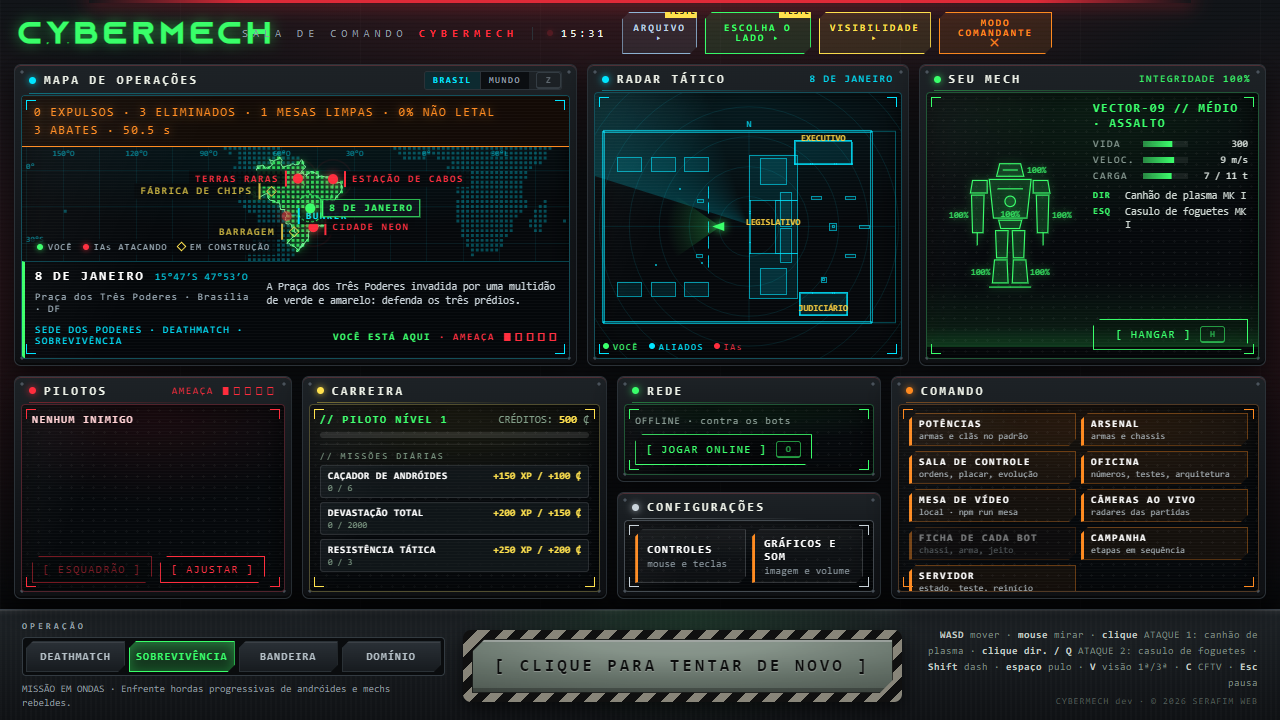
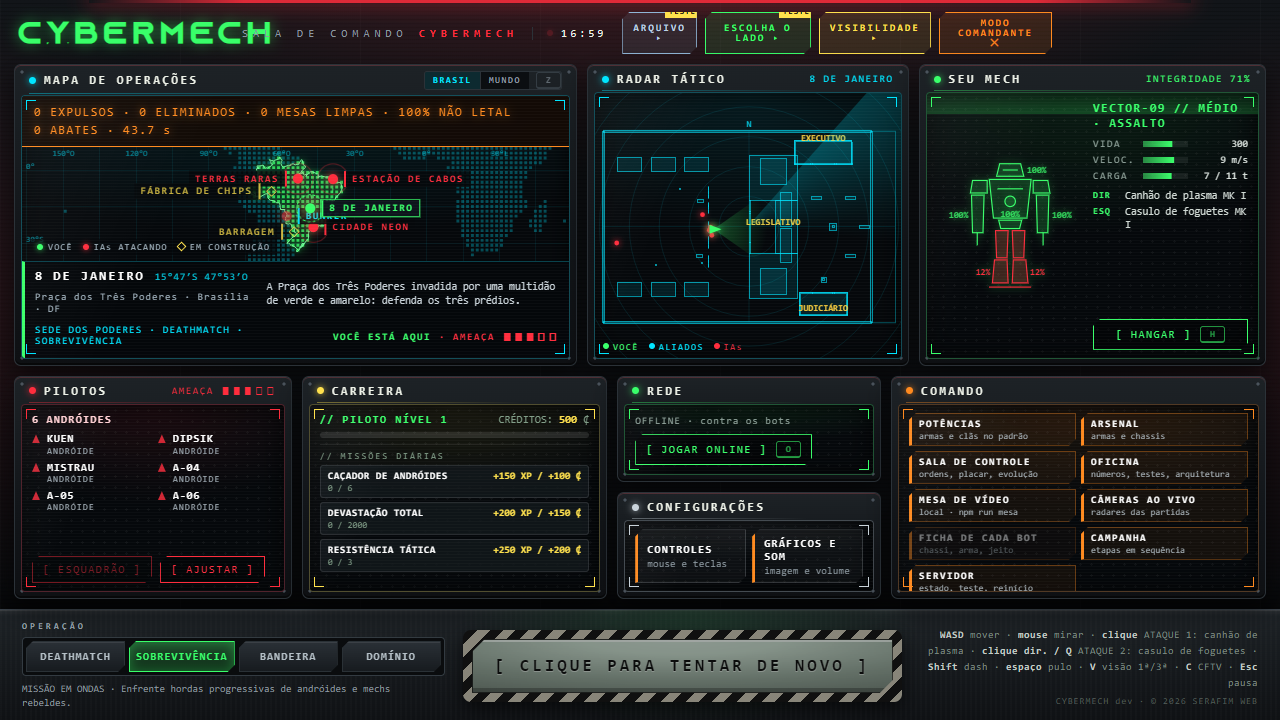
feat(janeiro): os androides rebeldes da missão do 8 de Janeiro: pool de 6 de preto, entram no cronograma da multidão e contam na Praça (P233)
BotSystem.entrarAndroide (sem alocar), androidPaint, a regra conta os rebeldes por chegar e vivos, painel com REBELDES. Vistos no Chrome com GPU real: 106 fps, 6 rebeldes aos 34 s. Equilíbrio é palpite.

diff --git a/client/src/sim/Match.ts b/client/src/sim/Match.ts
@@ -271,11 +271,15 @@ export class Match {
   /** O tick da missão do 8 DE JANEIRO (o relógio da multidão: o mesmo no servidor e no cliente, G2). */
   private tickJaneiro = 0;
   /** Rascunhos reaproveitados da missão (G4): a situação da Praça, onde estão os jogadores (para o susto) e quem fugiu por causa do jogador. */
-  private readonly situacaoDaPraca: SituacaoDaPraca = { naFachada: [], faltamChegar: 0, presentes: 0, eliminados: 0 };
+  private readonly situacaoDaPraca: SituacaoDaPraca = { naFachada: [], faltamChegar: 0, presentes: 0, eliminados: 0, rebeldesEliminados: 0 };
   private readonly pontosDoSusto: { x: number; z: number }[] = [];
   private fugaPeloJogador = new Uint8Array(0);
   /** O pedaço sob demanda da missão (a multidão e a regra): as constantes dela vêm daqui. `null` fora da missão. */
   private janeiroPedaco: MissaoJaneiroCarregada | null = null;
+  /** Os androides rebeldes agendados pela multidão, em ordem de chegada, e quantos já entraram em campo (G2: o cronograma é o da semente). */
+  private rebeldesAgendados: readonly { tick: number; x: number; z: number }[] = [];
+  private rebeldesEntraram = 0;
+  private rebeldesVivosN = 0;
   /** O escudo do Draga-01 (P180, parte D): três geradores que se quebram a tiro; de pé, o Draga leva 90% menos dano. `null` fora da missão do rio. */
   readonly escudo: EscudoDoDraga | null = null;
   /** As oito torres de vigia armadas da margem (P180, parte D2): atiram atravessando o rio enquanto o gerador da CERCA estiver de pé. `null` fora da missão do rio. */
@@ -396,6 +400,7 @@ export class Match {
       this.janeiroPedaco = J;
       const multidao = new J.Multidao(J.configDaMissaoJaneiro());
       this.multidao = multidao;
+      this.rebeldesAgendados = [...multidao.androides].sort((a, b) => a.tick - b.tick);
       this.fugaPeloJogador = new Uint8Array(multidao.total);
       this.missaoJaneiro = new J.MissaoJaneiro(J.MESAS_POR_PREDIO, (sobreviveu, r) =>
         this.onMissionEnd?.(sobreviveu, 1, { wavesCleared: sobreviveu ? 1 : 0, kills: r.eliminados, damageDealt: 0, survivalSeconds: r.segundos }),
@@ -474,7 +479,7 @@ export class Match {
             // Na praia as ondas nascem na areia, longe da estação (o jogador defende a estação); na Arena, nos pontos de sempre.
             // Na Amazônia (P180, parte C) o Draga-01 é o único inimigo da missão: a defesa dele (Mechs, androides, torres) vem na parte D.
             spawns: amazonia ? defesa?.guarda.mechs ?? [] : janeiro ? [] : ctf ? CTF_DEFENDER_SPAWNS : praia ? PRAIA_INIMIGOS.slice(0, SURVIVAL_MAX_MECHS) : BOT_SPAWNS.slice(0, SURVIVAL_MAX_MECHS),
-            androidSpawns: amazonia ? defesa?.guarda.androids ?? [] : janeiro ? [] : ctf ? [] : praia ? PRAIA_INIMIGOS.slice(SURVIVAL_MAX_MECHS, SURVIVAL_MAX_MECHS + SURVIVAL_MAX_ANDROIDS) : ANDROID_SPAWNS.slice(0, SURVIVAL_MAX_ANDROIDS),
+            androidSpawns: amazonia ? defesa?.guarda.androids ?? [] : janeiro ? this.janeiroPedaco!.PONTOS_DOS_REBELDES : ctf ? [] : praia ? PRAIA_INIMIGOS.slice(SURVIVAL_MAX_MECHS, SURVIVAL_MAX_MECHS + SURVIVAL_MAX_ANDROIDS) : ANDROID_SPAWNS.slice(0, SURVIVAL_MAX_ANDROIDS),
             manifestanteSpawns: praia && !ctf ? PRAIA_MANIFESTANTES.slice(0, SURVIVAL_MAX_MANIFESTANTES) : [],
             technicianSpawns: [],
             personas: o.foes.enemyPersonas,
@@ -486,6 +491,7 @@ export class Match {
       ...(amazonia && survival
         ? { chefeDoMapa: 'amazonia' as const, visualDoChefe: o.visualDoChefe ?? null, ...(o.marcha ? { chefeNascimento: { x: posicaoNaMarcha(o.marcha), z: rioEmX(posicaoNaMarcha(o.marcha)) } } : {}) }
         : {}),
+      ...(janeiro ? { androidPaint: 0x15171a } : {}), // os androides rebeldes da Praça de preto, no meio do verde e amarelo
       ...(o.bossMask === undefined ? {} : { mascaraDoChefe: o.bossMask }),
       respawn: !survival,
       respawnAtHome: ctf,
@@ -1423,6 +1429,11 @@ export class Match {
     }
   }
 
+  /** Quantos androides rebeldes estão em campo agora (a missão do 8 DE JANEIRO; 0 fora dela). O painel e os testes leem daqui. */
+  get rebeldesVivos(): number {
+    return this.rebeldesVivosN;
+  }
+
   /** O tick da missão do 8 DE JANEIRO (0 fora dela): o desenho da multidão lê daqui, e os testes sabem em que tick a multidão está. */
   get tickDaMissao(): number {
     return this.tickJaneiro;
@@ -1446,11 +1457,22 @@ export class Match {
       if (vivo && p.isDashing) multidao.explodir(p.simPosition.x, 1, p.simPosition.z, RAIO_DA_INVESTIDA, DANO_DA_INVESTIDA, t);
     }
     multidao.assustarPorPerto(pontos, RAIO_DO_SUSTO, t);
+    // Os androides rebeldes entram no cronograma da multidão, um por vaga do pool (no máximo REBELDES_MAX vivos); sem vaga, esperam a próxima.
+    const agenda = this.rebeldesAgendados;
+    while (this.rebeldesEntraram < agenda.length && agenda[this.rebeldesEntraram]!.tick <= t) {
+      const a = agenda[this.rebeldesEntraram]!;
+      if (!this.bots.entrarAndroide(a.x, a.z)) break;
+      this.rebeldesEntraram++;
+    }
+    let vivos = 0;
+    for (const m of this.bots.mechs) if (m.alive) vivos++;
+    this.rebeldesVivosN = vivos;
     const s = this.situacaoDaPraca;
     s.naFachada = multidao.contarNaFachada(t);
-    s.faltamChegar = multidao.faltamChegar;
-    s.presentes = multidao.presentes;
+    s.faltamChegar = multidao.faltamChegar + (agenda.length - this.rebeldesEntraram);
+    s.presentes = multidao.presentes + vivos;
     s.eliminados = multidao.eliminados;
+    s.rebeldesEliminados = this.rebeldesEntraram - vivos;
     missao.fixedUpdate(dt, t, s);
   }
 
@@ -1496,6 +1518,9 @@ export class Match {
       this.multidao.reiniciar();
       this.fugaPeloJogador.fill(0);
       this.tickJaneiro = 0;
+      this.rebeldesEntraram = 0;
+      this.rebeldesVivosN = 0;
+      this.bots.setRoster(0, 0); // os androides rebeldes saem de campo e voltam no cronograma
     }
     this.nucleo?.reset();
     this.cabos?.reset();

diff --git a/client/src/sim/MissaoJaneiro.ts b/client/src/sim/MissaoJaneiro.ts
@@ -41,6 +41,14 @@ export const RAIO_DO_SUSTO = 6;
 export const RAIO_DA_INVESTIDA = 2.4;
 export const DANO_DA_INVESTIDA = 30;
 
+/** Os androides rebeldes (o único inimigo que luta): quantos ficam vivos ao mesmo tempo (o pool do `BotSystem`, G11: nada é criado no tick) e as vagas em que o pool nasce (o lugar de verdade é o do ônibus, `aoEntrar`). */
+export const REBELDES_MAX = 6;
+export const PONTOS_DOS_REBELDES: readonly (readonly [number, number])[] = Array.from({ length: REBELDES_MAX }, (_, k) => {
+  const onibus = PRACA_FONTES.filter((f) => f.tipo === 'onibus');
+  const o = onibus[k % onibus.length]!;
+  return [o.x, o.z] as const;
+});
+
 /** Quantas mesas tem o saguão de cada prédio (a ordem é a de `PracaLayout`). */
 export const MESAS_POR_PREDIO: readonly number[] = PRACA_PREDIOS.map((p) => p.saguao.mesas.length);
 
@@ -57,18 +65,22 @@ export type CausaDaDerrotaJaneiro = 'predio' | 'tempo';
 export interface SituacaoDaPraca {
   /** Quantos figurantes estão na fachada de cada prédio. */
   naFachada: ArrayLike<number>;
-  /** Quantos ainda vão chegar pelas fontes. */
+  /** Quantos ainda vão chegar pelas fontes (a multidão e os androides rebeldes agendados). */
   faltamChegar: number;
-  /** Quantos estão na Praça agora (chegando, na fachada ou fugindo). */
+  /** Quantos estão na Praça agora (a multidão chegando, na fachada ou fugindo, e os androides rebeldes vivos). */
   presentes: number;
   /** Eliminados pelo jogador até agora (a multidão conta). */
   eliminados: number;
+  /** Os androides rebeldes que o jogador já derrubou (eles contam em `presentes` e em `faltamChegar` enquanto vivos ou por chegar, e não entram na nota não letal). */
+  rebeldesEliminados: number;
 }
 
 export interface ResultadoDaMissaoJaneiro {
   eliminados: number;
   expulsos: number;
   mesasLimpas: number;
+  /** Os androides rebeldes derrubados. */
+  rebeldes: number;
   segundos: number;
   /** A integridade que sobrou em cada prédio (0 a `INTEGRIDADE_MAX`). */
   integridade: readonly number[];
@@ -90,6 +102,7 @@ export class MissaoJaneiro {
   expulsos = 0;
   mesasLimpas = 0;
   private eliminados = 0;
+  private rebeldes = 0;
   /** A integridade de cada prédio. */
   readonly integridade: number[];
   /** Por prédio, as mesas sujas (1) e limpas (0): a ordem é a de `PracaLayout`. */
@@ -157,6 +170,7 @@ export class MissaoJaneiro {
       eliminados,
       expulsos: this.expulsos,
       mesasLimpas: this.mesasLimpas,
+      rebeldes: this.rebeldes,
       segundos: this.tempoS,
       integridade: this.integridade.slice(),
       naoLetal: tirados === 0 ? 1 : this.expulsos / tirados,
@@ -172,6 +186,7 @@ export class MissaoJaneiro {
     if (this.terminou) return;
     this.tempoS += dt;
     this.eliminados = praca.eliminados;
+    this.rebeldes = praca.rebeldesEliminados;
     for (let p = 0; p < this.integridade.length; p++) {
       const sujas = this.nSujas[p]!;
       if (sujas > 0) {
@@ -214,6 +229,7 @@ export class MissaoJaneiro {
     this.expulsos = 0;
     this.mesasLimpas = 0;
     this.eliminados = 0;
+    this.rebeldes = 0;
     this.integridade.fill(INTEGRIDADE_MAX);
     for (const m of this.suja) m.fill(0);
     this.nSujas.fill(0);

diff --git a/client/src/sim/Match.janeiro.test.ts b/client/src/sim/Match.janeiro.test.ts
@@ -10,7 +10,7 @@ import { weapon } from '../combat/weapons';
 import type { ParticleSystem } from '../fx/ParticleSystem';
 import { FIXED_DT, PhysicsWorld } from '../physics/PhysicsWorld';
 import { Match } from './Match';
-import { INTEGRIDADE_MAX } from './MissaoJaneiro';
+import { INTEGRIDADE_MAX, REBELDES_MAX, type SituacaoDaPraca } from './MissaoJaneiro';
 import type { MissionStats } from './SurvivalWaves';
 
 const IDLE: MechInput = { moveX: 0, moveZ: 0, moveYaw: 0, yaw: 0, jump: false, dash: false };
@@ -183,6 +183,40 @@ describe('a missão do 8 DE JANEIRO no Match (P217, passo 5): a multidão contra
     expect(match.missaoJaneiro!.causa).toBe('predio');
   });
 
+  it('os androides rebeldes (o único inimigo que luta) entram no cronograma da multidão, um por vaga do pool, nunca mais que REBELDES_MAX vivos; a missão não termina com um por chegar', async () => {
+    const { match, run } = await partida();
+    const m = match.multidao!;
+    expect(match.rebeldesVivos).toBe(0);
+    const primeiro = Math.min(...m.androides.map((a) => a.tick));
+    expect(m.androides.length).toBeGreaterThan(REBELDES_MAX); // o cronograma tem mais rebeldes que vagas: o resto espera
+    run(primeiro / 60 - 2);
+    expect(match.rebeldesVivos).toBe(0);
+    run(4);
+    expect(match.rebeldesVivos).toBeGreaterThanOrEqual(1);
+    for (let s = 0; s < 6; s++) {
+      run(10);
+      expect(match.rebeldesVivos).toBeLessThanOrEqual(REBELDES_MAX);
+      expect(match.bots.mechs.filter((b) => b.alive).length).toBe(match.rebeldesVivos);
+    }
+    const situacao = (match as unknown as { situacaoDaPraca: SituacaoDaPraca }).situacaoDaPraca;
+    expect(situacao.presentes).toBe(m.presentes + match.rebeldesVivos); // eles contam na Praça
+    expect(situacao.faltamChegar).toBeGreaterThan(m.faltamChegar - 1); // e os agendados contam como por chegar
+  });
+
+  it('derrubar um androide rebelde conta no resultado e libera a vaga do pool para o próximo do cronograma', async () => {
+    const { match, run } = await partida();
+    const m = match.multidao!;
+    run(Math.min(...m.androides.map((a) => a.tick)) / 60 + 3);
+    const rebelde = match.bots.mechs.find((b) => b.alive)!;
+    expect(rebelde).toBeDefined();
+    const antes = match.rebeldesVivos;
+    rebelde.takeHit(new THREE.Vector3(rebelde.simPosition.x, rebelde.simPosition.y + 1, rebelde.simPosition.z), 1e6);
+    run(0.1);
+    expect(rebelde.alive).toBe(false);
+    expect(match.missaoJaneiro!.resultado().rebeldes).toBeGreaterThanOrEqual(1);
+    expect(match.rebeldesVivos).toBeLessThanOrEqual(antes);
+  });
+
   it('o reinício da missão volta tudo: a multidão do zero, os prédios inteiros, o relógio e o placar zerados', async () => {
     const { match, run } = await partida();
     run(30);
@@ -196,5 +230,7 @@ describe('a missão do 8 DE JANEIRO no Match (P217, passo 5): a multidão contra
     expect([...match.missaoJaneiro!.integridade]).toEqual([INTEGRIDADE_MAX, INTEGRIDADE_MAX, INTEGRIDADE_MAX]);
     expect(match.missaoJaneiro!.tempoS).toBe(0);
     expect(match.missaoJaneiro!.fase).toBe('em-curso');
+    expect(match.rebeldesVivos).toBe(0);
+    expect(match.bots.mechs.every((b) => !b.alive)).toBe(true);
   });
 });

diff --git a/client/src/combat/BotSystem.ts b/client/src/combat/BotSystem.ts
@@ -60,6 +60,7 @@ export const RADIO_RANGE = 80;
 const RADIO_CALLOUT_S = 8;
 
 const _muzzle = new THREE.Vector3();
+const _entra = new THREE.Vector3();
 const _blastDir = new THREE.Vector3();
 const _blastSpread: Spread = { x: 0, y: 0 };
 
@@ -118,6 +119,8 @@ export interface BotSystemOptions {
    * (senão o jogador não teria como distinguir quem atira nele de quem luta ao lado dele).
    */
   paint?: number;
+  /** A cor do corpo dos andróides do pool (os rebeldes da missão do 8 DE JANEIRO usam preto); sem ela, a de sempre. */
+  androidPaint?: number;
   visor?: number;
   /** Onde cada Mech rebelde (escala 2) nasce (x, z): um por ponto. */
   spawns: readonly (readonly [number, number])[];
@@ -321,7 +324,7 @@ export class BotSystem {
     });
 
     // Andróides: sementes depois das dos Mechs.
-    (o.androidSpawns ?? []).forEach((p, i) => fighter(new Android({ stats: androidStats }), p, pick(o.names?.androids ?? BOT_NAMES.androids, i, 'A'), o.spawns.length + i, true, o.androidKits?.[i]));
+    (o.androidSpawns ?? []).forEach((p, i) => fighter(new Android({ stats: androidStats, ...(o.androidPaint === undefined ? {} : { paint: o.androidPaint }) }), p, pick(o.names?.androids ?? BOT_NAMES.androids, i, 'A'), o.spawns.length + i, true, o.androidKits?.[i]));
     // Os manifestantes (P163): corpo de andróide, mais fraco, camisa amarela e bandeira; o cérebro é o do andróide (corpo a corpo). Sementes depois das dos andróides.
     const manifestanteStats = poweredStats(MANIFESTANTE_STATS, power, 'androids');
     (o.manifestanteSpawns ?? []).forEach((p, i) =>
@@ -401,6 +404,22 @@ export class BotSystem {
       }
     }
     this.directorTimer = 0;
+  }
+
+  /**
+   * Põe em campo, em (x, z), o primeiro andróide do pool que não está em campo: os rebeldes da missão do 8 DE JANEIRO (P217) chegam um a um, no cronograma da multidão, de frente para o centro
+   * e com o cérebro zerado. `false` se todos estão vivos (a missão espera uma vaga: o teto de rebeldes vivos é o tamanho do pool). Nunca cria nem remove objetos (G4/G5).
+   */
+  entrarAndroide(x: number, z: number): boolean {
+    for (const { mech, brain } of this.bots) {
+      if (!(brain instanceof BotController) || !(mech instanceof Android) || ehManifestante(mech.stats.name) || mech.alive) continue;
+      _entra.set(x, 0, z);
+      mech.respawn(_entra);
+      mech.applyFacing(Math.atan2(x, z), 0);
+      brain.reset();
+      return true;
+    }
+    return false;
   }
 
   /** O chefe da missão (o Colossus), se está em campo e vivo; senão `null`. O HUD e as regras do capítulo leem daqui. */

diff --git a/client/src/sim/MissaoJaneiro.test.ts b/client/src/sim/MissaoJaneiro.test.ts
@@ -23,7 +23,7 @@ const nova = () => {
   const m = new MissaoJaneiro(MESAS, (sobreviveu, r) => fins.push({ sobreviveu, r }));
   return { m, fins };
 };
-const praca = (o: Partial<SituacaoDaPraca> = {}): SituacaoDaPraca => ({ naFachada: [0, 0, 0], faltamChegar: 100, presentes: 10, eliminados: 0, ...o });
+const praca = (o: Partial<SituacaoDaPraca> = {}): SituacaoDaPraca => ({ naFachada: [0, 0, 0], faltamChegar: 100, presentes: 10, eliminados: 0, rebeldesEliminados: 0, ...o });
 /** Um figurante `i` que sempre sujaria uma mesa (e outro que nunca). */
 const quemSuja = (): number => { let i = 0; while (sorteioDoFigurante(i) >= PERCENTUAL_DE_SUJEIRA) i++; return i; };
 const quemNaoSuja = (): number => { let i = 0; while (sorteioDoFigurante(i) < PERCENTUAL_DE_SUJEIRA) i++; return i; };
@@ -75,6 +75,18 @@ describe('a missão do 8 de janeiro (P217, passo 5): como a fase acaba', () => {
     expect(fins[0]!.sobreviveu).toBe(true);
     expect(fins[0]!.r.eliminados).toBe(7);
     expect(fins[0]!.r.causa).toBeNull();
+  });
+
+  it('os androides rebeldes entram na conta da Praça: por chegar ou vivos, seguram a vitória; os derrubados vão para o placar, e não para a nota não letal', () => {
+    const { m, fins } = nova();
+    for (let k = 0; k < 5; k++) m.registrarExpulso();
+    m.fixedUpdate(DT, 1, praca({ faltamChegar: 2, presentes: 0 })); // dois rebeldes ainda por chegar
+    m.fixedUpdate(DT, 2, praca({ faltamChegar: 0, presentes: 1 })); // um em campo
+    expect(m.fase).toBe('em-curso');
+    m.fixedUpdate(DT, 3, praca({ faltamChegar: 0, presentes: 0, rebeldesEliminados: 2, eliminados: 5 }));
+    expect(m.fase).toBe('vitoria');
+    expect(fins[0]!.r.rebeldes).toBe(2);
+    expect(fins[0]!.r.naoLetal).toBeCloseTo(0.5, 6); // 5 expulsos entre 5 + 5 tirados da Praça: os 2 rebeldes derrubados ficam de fora da conta
   });
 
   it('se um prédio cai no mesmo tick em que a Praça esvazia, vale a derrota (a missão é mantê-los de pé)', () => {

diff --git a/client/src/environment/JaneiroJogo.ts b/client/src/environment/JaneiroJogo.ts
@@ -112,16 +112,17 @@ export function criarJaneiroJogo(scene: THREE.Scene, match: Match, hud: HTMLElem
       cel.c.classList.toggle('jp-medio', fracao > 0.25 && fracao <= 0.55);
     }
     const sujas = [0, 0, 0].reduce((s, _, k) => s + missao.mesasSujas(k), 0);
-    const texto = `EXPULSOS ${missao.expulsos} · ELIMINADOS ${multidao.eliminados} · MESAS SUJAS ${sujas}`;
+    const texto = `EXPULSOS ${missao.expulsos} · ELIMINADOS ${multidao.eliminados} · REBELDES ${match.rebeldesVivos} · MESAS SUJAS ${sujas}`;
     if (texto !== ultimoPlacar) {
       ultimoPlacar = texto;
       placar.textContent = texto;
     }
+    const naPraca = multidao.presentes + match.rebeldesVivos;
     const linha =
       multidao.faltamChegar > 0
-        ? `DEFENDA OS TRÊS PRÉDIOS · NA PRAÇA ${multidao.presentes}`
-        : multidao.presentes > 0
-          ? `ESVAZIE A PRAÇA · ${multidao.presentes} RESTANTES`
+        ? `DEFENDA OS TRÊS PRÉDIOS · NA PRAÇA ${naPraca}`
+        : naPraca > 0
+          ? `ESVAZIE A PRAÇA · ${naPraca} RESTANTES`
           : 'A PRAÇA ESVAZIOU';
     if (linha !== ultimaLinha) {
       ultimaLinha = linha;

diff --git a/.decepticons/ESTADO_ATUAL.md b/.decepticons/ESTADO_ATUAL.md
@@ -16,17 +16,25 @@
 
 > **Arquivo:** o que tem mais de dois dias mora em `.decepticons/arquivo/estado-*.md` (nada se perdeu; `npm run arquivar` move mais). Procure por busca, não leia inteiro.
 
+## OS ANDROIDES REBELDES DA MISSÃO DO 8 DE JANEIRO — Claude, 20/10 (branch `claude/janeiro-rebeldes`, P233)
+
+**O Comandante (20/10):** *"CONTINUA!!!!!"* (a missão do 8 de Janeiro é a prioridade). **Feito:** os **androides rebeldes** (o único inimigo que luta, ficha § 2) entram na missão: um pool de **6** do `BotSystem` (`androidSpawns` da Praça, de **preto**: `androidPaint`), que entram em campo **no cronograma da multidão** (`Multidao.androides`: os ~5% da cota que são rebeldes, no tick e no ônibus agendados) por `BotSystem.entrarAndroide` (nada é criado no tick, G4/G5). Sem vaga (6 vivos), o próximo espera. Eles **contam na Praça**: seguram a vitória (por chegar ou vivos) e a derrota por tempo; os derrubados vão para o placar (`rebeldes`), fora da nota não letal. O painel mostra `REBELDES n` e a linha de cima conta a Praça com eles. O reinício os tira de campo e o cronograma recomeça.
+**Provas:** 4 testes novos no `Match` (entram no cronograma, nunca mais que 6 vivos, contam na Praça e nos por chegar, derrubar um conta e libera a vaga, o reinício) e 1 da regra; **no Chrome com a GPU real** (`medicoes/janeiro-missao.mjs`): 6 rebeldes em campo aos 34 s, **106 fps (p95 17 ms), 63 desenhos, 25 mil triângulos**; foto de um rebelde atacando o Mech em `arte/janeiro-missao-rebelde.png`. **Atenção (R13):** em 75 s parados, 6 rebeldes **derrubaram o Mech**: o equilíbrio dos rebeldes (quantos, quando, a vida e o dano deles) é palpite e é a primeira coisa a calibrar no playtest. O erro de rede `ERR_CONNECTION_REFUSED` que a bancada mostrou é o servidor de jogo local desligado, não a missão.
+**Falta (R13):** os **faxineiros como agentes** (a faxina segue abstrata); o **Relatório de Consequências com fatos e fontes** (a ficha de fatos tem os 🟢; falta o painel da missão e a **revisão humana** de cada fato), a missão online, as armas de feixe e de chama contra a multidão, o contador ABATES do HUD e o equilíbrio jogando.
+**Onde conferir:** `/jogar/?mapa=janeiro&modo=survival&comandante=1`: aos ~30 s os androides de preto começam a chegar; ou `?...&depurar` e `__game.match.rebeldesVivos`.
+**Próxima sessão começa com:** o Relatório de Consequências do 8 de Janeiro (só os fatos 🟢 da ficha, com fonte e data do balanço, sem nome nem número exato), e a calibragem dos rebeldes com o playtest do Comandante.
+
 ## A MISSÃO DO 8 DE JANEIRO, JOGÁVEL (v1, OFFLINE) — Claude, 20/10 (branch `claude/cabos-e-janeiro`, P233)
 
 **O Comandante (20/10):** *"quero na sequência evoluir a missão do 8 de janeiro (essa é nossa prioridade atual, entregarmos essa fase completa)"*. **Feito (passo 5 da ficha, primeira metade):** `?mapa=janeiro&modo=survival&comandante=1` joga a missão. **A regra** (`sim/MissaoJaneiro.ts`, pura, 13 testes): três prédios com integridade 1.000 que cai com quem está na fachada (1,4/s por figurante) e com cada mesa suja do saguão (1,0/s); parte de quem chega suja uma mesa (18%, sem sorteio ao vivo, G2); os faxineiros limpam uma mesa em 3 s (**abstratos** na v1: N por prédio, sem andar); vence com os três de pé e a Praça vazia, perde com um prédio a zero ou o tempo passado; a nota é `expulsos ÷ (expulsos + eliminados)`. **No `Match`:** a multidão (`sim/Multidao.ts`) avança por tick (relógio da missão, o mesmo no servidor e no cliente), o tiro do jogador a acerta (`ProjectileSystem.contraMassa`; o tiro hostil a atravessa), a explosão a derruba e assusta, o jogador por perto (6 m) a assusta e o dash (a "porrada") leva quem está no caminho; o fim sai pelo aviso de missão; o reinício volta tudo (`Multidao.reiniciar`, `MultidaoDesenho.recomecar`). **Na tela** (`environment/JaneiroJogo.ts`, pedaço sob demanda): a multidão desenhada, as mesas sujas (montinhos) e o painel dos três prédios (barras que mudam de cor), a linha da missão e a nota no fim. **Pacote de partida:** a multidão e a regra moram em `sim/MissaoJaneiroPedaco.ts`, carregado com o mapa (`exigirMissaoJaneiro`); o pacote ficou em 468,9 KB de 500.
 
 **Provas:** 13 testes da regra + 10 do `Match` (o tiro do jogador acerta e o hostil não, a explosão, a investida, o susto, parado perde entre 1 e 4 min, o fim congela o mundo, o reinício, a mesma semente) + o reinício do desenho; **no Chrome com a GPU real** (`medicoes/janeiro-missao.mjs`): **175 fps (p95 9 ms), 40 desenhos, 30 mil triângulos, 0 erro de página**, a multidão chegando às fachadas, o tiro derrubando, a tela de derrota. Capturas: `arte/janeiro-missao-*.png`.
 
-**Falta (R13):** os **androides rebeldes** (o único inimigo que luta; hoje a multidão só desgasta) e os **faxineiros de verdade** (andar até a mesa; vulneráveis); o **Relatório de Consequências com fatos e fontes** e a **revisão jurídica** (não é código); a **missão online** (O4); as armas de feixe, chama e o canhão sônico não atingem a multidão; o contador ABATES do HUD não conta a multidão; o teto da qualidade (`limitar`) não está ligado ao `Quality.ts`; **os números são palpite** (parado o jogador perde aos ~174 s de 300): falta jogar. **A Estação dos Cabos não mudou** (precisa do playtest do Comandante ou da escolha do que melhorar: P233).
+**Falta (R13):** os **faxineiros de verdade** (andar até a mesa; vulneráveis); o **Relatório de Consequências com fatos e fontes** e a **revisão jurídica** (não é código); a **missão online** (O4); as armas de feixe, chama e o canhão sônico não atingem a multidão; o contador ABATES do HUD não conta a multidão; o teto da qualidade (`limitar`) não está ligado ao `Quality.ts`; **os números são palpite** (parado o jogador perde aos ~174 s de 300): falta jogar. **A Estação dos Cabos não mudou** (precisa do playtest do Comandante ou da escolha do que melhorar: P233).
 
 **Onde o Comandante confere:** `/jogar/?mapa=janeiro&modo=survival&comandante=1` (só você vê; para liberar: SERVIDOR → VISIBILIDADE → `mapa:janeiro`). Tente: ficar na frente do Congresso atirando; deixar tudo para a multidão e ver um prédio cair em ~3 min; assustar à distância (a multidão foge a 6 m) e ver a nota "não letal".
 
-**Próxima sessão começa com:** os androides rebeldes e os faxineiros agentes (a mesma peça serve ao "técnico que conserta" da Estação dos Cabos), depois o Relatório com as fontes; ou o que o playtest do Comandante achar.
+**Próxima sessão começa com:** (os androides rebeldes já entraram: seção acima) o Relatório com as fontes e os faxineiros agentes; ou o que o playtest do Comandante achar.
 
 ## A LINHA FINAL: LANÇAR COM O QUE JÁ É REAL (CIDADE NEON + ESTAÇÃO DOS CABOS) — Claude, 20/10 (branch `claude/lancamento-enxuto`, P232)
 

diff --git a/.decepticons/STATUS_REAL.md b/.decepticons/STATUS_REAL.md
@@ -7,7 +7,7 @@
 
 **P209 — a voz no celular (REAL no Chrome emulado com toque de verdade, 12 de 12 em `medicoes/voz-celular.mjs`; AUSENTE: aparelho real, e o iPhone é o risco):** botão de microfone no modo toque (tocar alterna o mudo; no "segurar", vale com o dedo; sem microfone, tocar o pede de novo). Ouvir e falar já eram automáticos. **P210 (a rádio): só desenho, AUSENTE** (`RADIO_E_EMISSORES.md`).
 
-**P217 passo 5 — a missão do 8 DE JANEIRO (PARCIAL: v1 jogável OFFLINE no navegador, restrita ao Comandante `mapa:janeiro`; vista no Chrome na GPU real a 175 fps, 0 erro de página):** `?mapa=janeiro&modo=survival&comandante=1`: a multidão (1.434 figurantes, semente fixa) chega das fontes do mapa (ônibus, bueiros, lixeiras) e marcha às fachadas dos três prédios; cada prédio tem integridade 1.000 que cai com quem está na fachada e com cada mesa suja do saguão; o jogador atira (o tiro e a explosão acertam a multidão: `ProjectileSystem.contraMassa` e o `Match`), assusta (6 m) e investe (o dash leva quem está no caminho: a "porrada"); vence com os três de pé e a Praça vazia, perde se um prédio chega a zero ou o tempo passa; o fim sai pelo aviso de missão com a nota (expulsos, eliminados, mesas limpas, % não letal). 13 testes da regra e 10 do `Match` (o tiro do jogador acerta e o hostil não, a explosão, a investida, o susto, o fim, o reinício, a mesma semente, o mundo congelado). **PARCIAL / AUSENTE (R13):** os androides rebeldes (que lutam), os faxineiros como agentes (a faxina é abstrata: N por prédio limpam sem andar), o Relatório de Consequências com fatos e fontes e a revisão jurídica (`fichas/fatos-8-de-janeiro.md`), a missão **online** (a sala da Sobrevivência: O4), as armas de feixe e de chama (não atingem a multidão), o contador ABATES do HUD (não conta a multidão), o teto da qualidade (`limitar`) ligado ao `Quality.ts`, e **os números de equilíbrio são palpite** (parado, o jogador perde aos ~174 s de 300; falta jogar). **Onde conferir:** `/jogar/?mapa=janeiro&modo=survival&comandante=1`; capturas `.decepticons/arte/janeiro-missao-*.png`; bancada `medicoes/janeiro-missao.mjs`.
+**P217 passo 5 — a missão do 8 DE JANEIRO (PARCIAL: v1 jogável OFFLINE no navegador, restrita ao Comandante `mapa:janeiro`; vista no Chrome na GPU real a 175 fps, 0 erro de página):** `?mapa=janeiro&modo=survival&comandante=1`: a multidão (1.434 figurantes, semente fixa) chega das fontes do mapa (ônibus, bueiros, lixeiras) e marcha às fachadas dos três prédios; cada prédio tem integridade 1.000 que cai com quem está na fachada e com cada mesa suja do saguão; o jogador atira (o tiro e a explosão acertam a multidão: `ProjectileSystem.contraMassa` e o `Match`), assusta (6 m) e investe (o dash leva quem está no caminho: a "porrada"); vence com os três de pé e a Praça vazia, perde se um prédio chega a zero ou o tempo passa; o fim sai pelo aviso de missão com a nota (expulsos, eliminados, mesas limpas, % não letal). 13 testes da regra e 10 do `Match` (o tiro do jogador acerta e o hostil não, a explosão, a investida, o susto, o fim, o reinício, a mesma semente, o mundo congelado). **Os androides rebeldes (REAL no `Match`, 20/10): pool de 6 de preto, entram no cronograma da multidão, contam na Praça; o equilíbrio deles é palpite (em 75 s parados eles derrubam o Mech).** **PARCIAL / AUSENTE (R13):** os faxineiros como agentes (a faxina é abstrata: N por prédio limpam sem andar), o Relatório de Consequências com fatos e fontes e a revisão jurídica (`fichas/fatos-8-de-janeiro.md`), a missão **online** (a sala da Sobrevivência: O4), as armas de feixe e de chama (não atingem a multidão), o contador ABATES do HUD (não conta a multidão), o teto da qualidade (`limitar`) ligado ao `Quality.ts`, e **os números de equilíbrio são palpite** (parado, o jogador perde aos ~174 s de 300; falta jogar). **Onde conferir:** `/jogar/?mapa=janeiro&modo=survival&comandante=1`; capturas `.decepticons/arte/janeiro-missao-*.png`; bancada `medicoes/janeiro-missao.mjs`.
 
 **P205 — o chat de voz (REAL em Chrome de verdade entre dois navegadores na mesma máquina; PARCIAL: não provado entre redes diferentes nem ouvido pelo Comandante; RESTRITO ao modo Comandante, `tela:voz`):** voz P2P por WebRTC com o servidor só repassando a oferta e a resposta; microfone aberto ou segurar T; áudio espacial (cheio até 12 m, some em 160 m); recusa do microfone entra como ouvinte; Opus 24 kbps com DTX (medido: ~50 pacotes/s falando, ~5 calado). **AUSENTE:** canal TIME (o protocolo online não tem time), mudo por jogador e denúncia, TURN (quem a rede barra fica sem voz). **A voz está PÚBLICA** (o Comandante liberou `tela:voz` em 19/10) e a política de privacidade já a descreve (versão 2026-10-19; texto a revisar). `VOICE_CHAT.md`; bancada `medicoes/voz.mjs`.
 

diff --git a/.decepticons/ORDENS_DO_COMANDO.md b/.decepticons/ORDENS_DO_COMANDO.md
@@ -18,7 +18,7 @@
 
 | # | Data | Ordem do Comandante | Estado | Onde está | Como conferir |
 |---|---|---|---|---|---|
-| P233 | 20/10 | "quero que vc continue evoluindo as fases, pra lançarmos. melhora a estação do cabos e a missão nela. quero na sequência evoluir a missão do 8 de janeiro (**essa é nossa prioridade atual, entregarmos essa fase completa**)" | 🟡 | **8 de Janeiro: a v1 jogável offline entrou** (PR `claude/cabos-e-janeiro`): a multidão chega, os três prédios apanham, o jogador atira, assusta e investe, vence ou perde, com a nota (expulsos × eliminados). Fica restrita (`mapa:janeiro`). **Faltam:** os androides rebeldes, os faxineiros como agentes, o Relatório com fatos e fontes e a **revisão jurídica** (humana: não é código), a missão online, calibrar jogando. **Estação dos Cabos: nada mudou ainda**: melhorar às cegas é chutar; ela precisa do playtest do Comandante (ou da escolha: o técnico que conserta, o dano a tiro nos objetivos, o som da praia, a voz do SOC) | `/jogar/?mapa=janeiro&modo=survival&comandante=1`; `arte/janeiro-missao-*.png`; `ESTADO_ATUAL.md` |
+| P233 | 20/10 | "quero que vc continue evoluindo as fases, pra lançarmos. melhora a estação do cabos e a missão nela. quero na sequência evoluir a missão do 8 de janeiro (**essa é nossa prioridade atual, entregarmos essa fase completa**)" | 🟡 | **8 de Janeiro: a v1 jogável offline entrou** (PR `claude/cabos-e-janeiro`): a multidão chega, os três prédios apanham, o jogador atira, assusta e investe, vence ou perde, com a nota (expulsos × eliminados). Fica restrita (`mapa:janeiro`). **Os androides rebeldes entraram (PR `claude/janeiro-rebeldes`).** **Faltam:** os faxineiros como agentes, o Relatório com fatos e fontes e a **revisão jurídica** (humana: não é código), a missão online, calibrar jogando. **Estação dos Cabos: nada mudou ainda**: melhorar às cegas é chutar; ela precisa do playtest do Comandante (ou da escolha: o técnico que conserta, o dano a tiro nos objetivos, o som da praia, a voz do SOC) | `/jogar/?mapa=janeiro&modo=survival&comandante=1`; `arte/janeiro-missao-*.png`; `ESTADO_ATUAL.md` |
 | P234 | 20/10 | "temos um estúdio de edição dos sons do jogo, será que podemos melhorar e evoluir ele, pra que ele grave áudios do meu microfone, adicione efeitos e edições, e SALVE, pra usarmos no game? com voz sintetizada especial e configuradas pra determinadas ações/movimentações?" | 🟡 | **Já existe quase tudo** (`ESTUDIO.md` § 3.1, aba VOZES): grava o microfone no navegador, aplica efeitos (tom, graves, agudos, compressor, eco, 5 predefinições), prévia com o motor real e "salvar como a fala do jogo"; a aba SONS importa e registra. **Falta a aba AÇÕES:** ligar uma fala ou som a uma ação (dash, superaquecer, vida baixa, abate, objetivo da missão), com a voz sintetizada (ElevenLabs, custo e chave só por `npm run vozes`) onde não houver gravação sua. Entra depois das fases; o 8 de Janeiro pede as falas do briefing | `ESTUDIO.md` § 3.1 |
 | P235 | 20/10 | "sobre o ?comandante=1, tem como eu abrir/fechar ou habilitar/desabilitar na interface? … nao fecha o comandante ainda nao, vamos fechar só quando tiver um fluxo de jogadores … alguem teria como encontrar esse link sozinho?" | ✅ | **Decisão: o link fica aberto até haver fluxo de jogadores.** Hoje só fecha publicando de novo (`comandantePorLink` no `deploy-site.json`); um botão no painel SERVIDOR → VISIBILIDADE (vale na hora, sem publicar) é um PR pequeno, quando ele pedir. **Descobrível: sim** (o nome do parâmetro está no JavaScript que todo navegador baixa; `?admin=1` também vale); abre telas e fases restritas **offline**, não dá privilégio no servidor (o servidor recusa mapa restrito a quem não é administrador, e o painel dele pede o token). **Atenção:** com a missão do 8 de Janeiro jogável, o link a abre antes da revisão jurídica: fechar o link, ou tirar o conteúdo com fatos do pacote, antes de liberar | `LANCAMENTO.md` item 11 |
 | P236 | 20/10 | "encarregado é o Cel. Volkov OU Mary J (a jurista de serafim), ou a claudia (head red team) ou ainda o kenji (chief blue team) de serafim" | 🟡 | **Decisão dele, e a LGPD pede uma pessoa real** (ou empresa): um personagem do ecossistema Serafim pode ser o **nome do canal** (o e-mail `volkov@serafimweb.com` já está na política), mas quem responde na lei é ele ou um advogado de verdade. Pelo que sei, agente de pequeno porte pode ser dispensado de indicar encarregado se mantiver o canal de contato: **confirmar com advogado humano** (não afirmo). Pendente: o nome real que entra na política | `LANCAMENTO.md` § 6 |

diff --git a/.decepticons/HISTORICO_DE_DECISOES.md b/.decepticons/HISTORICO_DE_DECISOES.md
@@ -14,6 +14,10 @@
 
 > **Arquivo:** as entradas com mais de dois dias moram em `.decepticons/arquivo/historico-*.md` (nada se perdeu; `npm run arquivar` move mais). Procure por busca, não leia inteiro.
 
+## [2026-10-20] Os androides rebeldes entram pelo pool do BotSystem, no cronograma da multidão, e contam na Praça (Claude, P233)
+
+**Decisão:** os rebeldes da missão do 8 de Janeiro são **androides de verdade** (o `Android` e o `BotController` de hoje) num pool de 6, **de preto**, e entram em campo pelo cronograma da própria multidão (`Multidao.androides`), por `BotSystem.entrarAndroide` (nada é criado no tick, G4/G5; o tamanho do pool é o teto de vivos, G11). **Contam como Praça**: por chegar ou vivos, seguram a vitória; os derrubados vão para o placar e **ficam fora da nota não letal** (são máquinas, não a multidão). **Por quê:** a multidão sozinha só desgasta prédio (o jogador não corre risco); a ficha diz que só os androides lutam. **Alternativa descartada:** reusar o pool dos manifestantes da Estação dos Cabos (corpo e cérebro iguais, mas com a bandeira e as regras de cabo e porta, e ligado às ondas). **Risco aberto:** o equilíbrio é palpite (em 75 s parados, 6 rebeldes derrubam o Mech); calibrar no playtest.
+
 ## [2026-10-20] A missão do 8 de Janeiro v1: a multidão como dado dentro do Match, a faxina abstrata e o equilíbrio medido só contra o jogador parado (Claude, P233)
 
 **Ordem:** o Comandante fez do 8 de Janeiro a prioridade ("entregarmos essa fase completa"). **Decisões:** (1) **a regra mora no `Match`** (como a missão do rio), pura e com teste (G14), e o desenho é um pedaço sob demanda: o servidor e o cliente rodam a mesma missão, e quem joga a Cidade Neon não baixa a multidão (o pacote de partida ficou em 468,9 KB; a primeira versão, com a multidão no `Match`, custava +9,5 KB, e foi movida para `MissaoJaneiroPedaco`). (2) **A multidão não tem corpo na física:** o tiro a atinge por um gancho (`ProjectileSystem.contraMassa`, só tiro do lado do jogador) e a explosão pelo mesmo ponto onde já explode em Mech; a "porrada" é o dash, que explode um raio pequeno em volta do Mech. (3) **A faxina é abstrata na v1** (N faxineiros por prédio limpam uma mesa em 3 s/N, sem andar): o agente que anda e pode morrer vem junto com os androides rebeldes, que é a mesma peça do "técnico que conserta" da Estação dos Cabos. (4) **"Expulso" é quem sai do mapa fugindo do jogador** (tiro ou susto); quem foi embora sozinho depois de cumprir o tempo na fachada não conta: a nota é `expulsos ÷ (expulsos + eliminados)`. (5) **Equilíbrio:** o desgaste foi calibrado só contra o jogador **parado** (de 252 s para 174 s de 300 até um prédio cair); contra gente jogando é palpite, a calibrar no playtest. **Alternativas descartadas:** arrastar o corpo de cada figurante para a física (G4/G6: milhares de corpos não cabem); contar o susto como eliminação (esconde que a força é a última saída, a ficha). **Desfaz:** basta o Comandante mandar; a missão é restrita (`mapa:janeiro`).

diff --git a/.decepticons/fichas/cenario-8-de-janeiro.md b/.decepticons/fichas/cenario-8-de-janeiro.md
@@ -90,7 +90,7 @@ O que isso compra:
 2. **`sim/Multidao.ts`** (a massa como função do tempo, **com teste de simulação**) + a bancada de CPU. ✅ (0,043 ms por tick)
 3. **O desenho da massa** (instanciado, a posição na shader, a máscara) + a bancada de GPU na GPU real. ✅ **como demonstração** (`?multidao=1`); **falta** o impostor de longe, o teto da qualidade ligado ao `Quality.ts` e `varrer-nan` (`FERRAMENTAS.md` § 4.1, porque é shader novo).
 4. **O mapa** (a Praça e a Esplanada, colisores < 310; os ônibus, os bueiros, as lixeiras) + a captura. ✅ **Deathmatch, offline e online, restrito (`mapa:janeiro`)**; **faltam** as mesas dos saguões e a sujeira (vêm com a missão). Fotos: `.decepticons/arte/praca-*.png`; a bancada `medicoes/praca-fotos.mjs`: de 105 a 176 fps (167 com 2.500 de multidão) na GPU integrada.
-5. **A missão** ✅ **v1 offline (P233, 20/10: a cota de chegadas, as integridades, a sujeira com faxina abstrata, o tiro, o susto e a investida, o objetivo e a nota na tela; faltam os androides rebeldes, os faxineiros como agentes e o Relatório com fatos)** (a cota de chegadas, as integridades, a sujeira e os faxineiros, os androides rebeldes, o objetivo na tela no padrão do P194) + o mapa entra no catálogo de visibilidade como **restrito** (`mapa:janeiro`): só o Comandante vê até liberar.
+5. **A missão** ✅ **v1 offline (P233, 20/10: a cota de chegadas, as integridades, a sujeira com faxina abstrata, o tiro, o susto e a investida, o objetivo e a nota na tela; os androides rebeldes entraram em 20/10; faltam os faxineiros como agentes e o Relatório com fatos)** (a cota de chegadas, as integridades, a sujeira e os faxineiros, os androides rebeldes, o objetivo na tela no padrão do P194) + o mapa entra no catálogo de visibilidade como **restrito** (`mapa:janeiro`): só o Comandante vê até liberar.
 6. **A missão online** (a sala da Sobrevivência, `MULTIPLAYER.md` § 12, etapa O4): o cronograma e os eventos da § 3.
 
 ## 7. Fatos: o que o jogo pode afirmar (a regra "sátira exagera, fato é fato")
